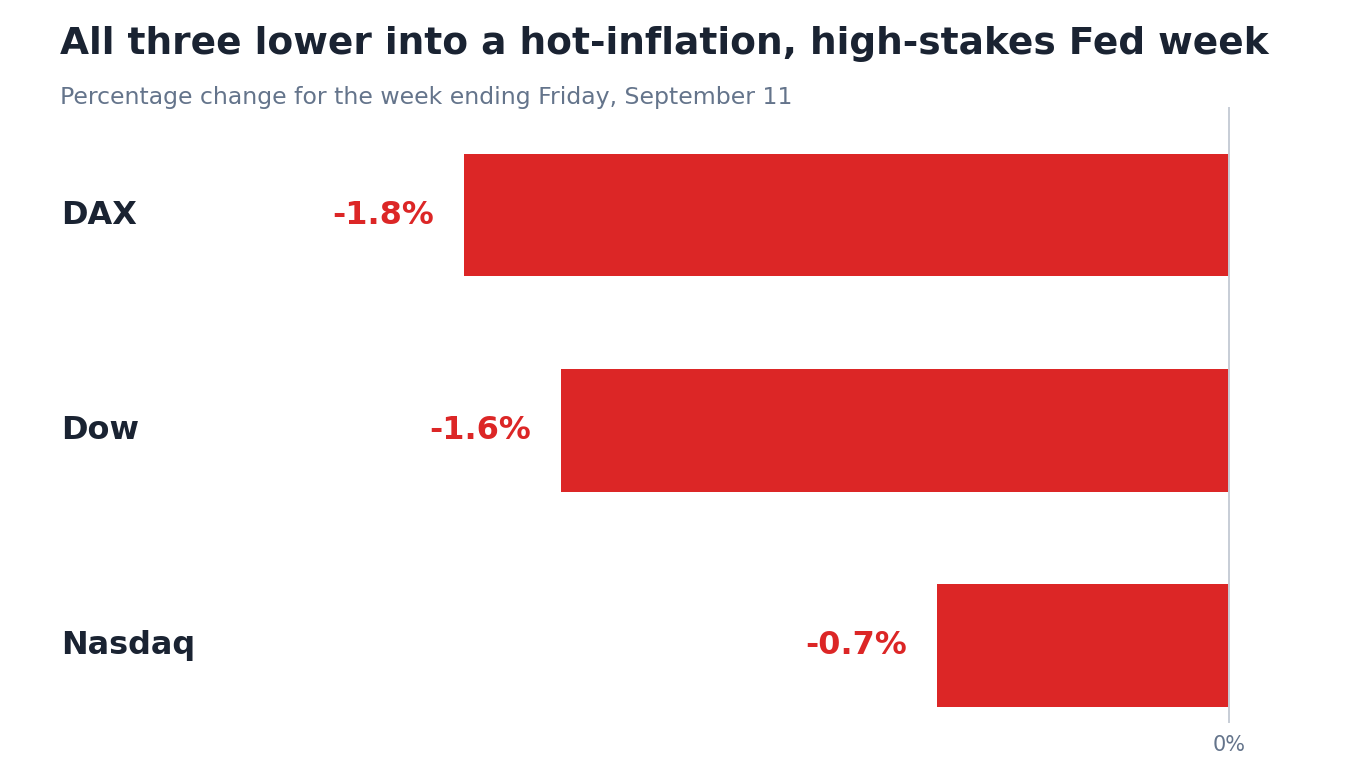
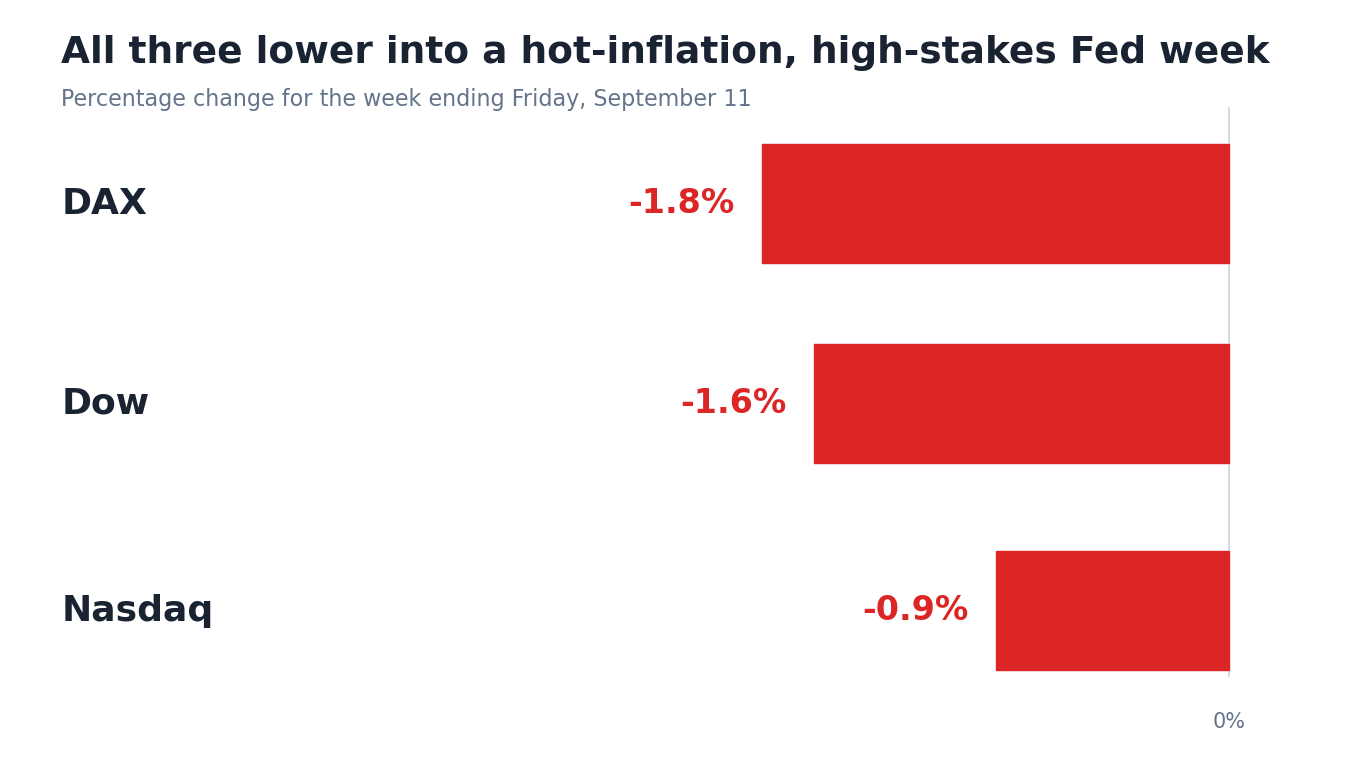
Fix Nasdaq weekly-change error in week-ahead post
The Nasdaq Composite's stated weekly move (-0.7%) was wrong - verified
against real closes (26,584.06 -> 26,333.04), the actual move was
-0.9%. Also fixed the mid-August level: 26,803 is a real August 13
close, but it was never a record - the actual all-time high (27,093.90)
was set in June. Corrected the cover chart to match.

DAX and Dow figures were re-checked against the same sources and are
accurate as published.

diff --git a/content/blog/2026-09-14-week-ahead/index.md b/content/blog/2026-09-14-week-ahead/index.md
@@ -5,7 +5,7 @@ draft: false
 description: "DAX, Dow, and Nasdaq all closed lower after August's CPI and PPI came in higher than expected, pushing the odds of the Fed raising rates up to around 70%. Wednesday's decision, due the same morning as August retail sales, is the week's one real event."
 cover:
   image: "fomc-week.png"
-  alt: "Bar chart showing weekly percentage change for DAX (-1.8%), Dow (-1.6%), and Nasdaq (-0.7%) for the week ending Friday, September 11"
+  alt: "Bar chart showing weekly percentage change for DAX (-1.8%), Dow (-1.6%), and Nasdaq (-0.9%) for the week ending Friday, September 11"
   caption: "All three closed the week lower as stronger-than-expected inflation data pushed the odds of a rate rise up ahead of Wednesday's Fed decision"
 categories: ["Market Review"]
 tags: ["DAX", "Dow", "Nasdaq", "week ahead", "Federal Reserve", "inflation"]
@@ -15,7 +15,7 @@ Everything else this week is just waiting for Wednesday afternoon. That's when t
 
 ## Last week
 
-Both of August's big inflation reports came in higher than expected. Producer prices rose 0.4% on the month, with the yearly rate climbing to 5.4%, and consumer prices came in a touch firmer than forecast too, core inflation up 0.3%. Numbers like that make it easier for the Fed to justify raising rates rather than holding steady, and all three indices ended the week lower because of it, even with a strong rally on Friday itself. The DAX lost 1.8% to close at 25,569, the Dow gave up 1.6% to 52,573.29 despite adding more than 500 points on Friday alone, and the Nasdaq Composite came off just 0.7% to 26,333.04. President Trump has also been openly pushing Fed chair Kevin Warsh to cut rates instead of raising them, which hasn't changed the numbers but has added a layer of noise to a decision that was already close to balanced.
+Both of August's big inflation reports came in higher than expected. Producer prices rose 0.4% on the month, with the yearly rate climbing to 5.4%, and consumer prices came in a touch firmer than forecast too, core inflation up 0.3%. Numbers like that make it easier for the Fed to justify raising rates rather than holding steady, and all three indices ended the week lower because of it, even with a strong rally on Friday itself. The DAX lost 1.8% to close at 25,569, the Dow gave up 1.6% to 52,573.29 despite adding more than 500 points on Friday alone, and the Nasdaq Composite came off 0.9% to 26,333.04. President Trump has also been openly pushing Fed chair Kevin Warsh to cut rates instead of raising them, which hasn't changed the numbers but has added a layer of noise to a decision that was already close to balanced.
 
 ## The week ahead
 
@@ -29,7 +29,7 @@ The Dow has support around 52,000, a round number sitting just under Friday's cl
 
 ### Nasdaq
 
-The Nasdaq Composite has leaned on a support shelf around 26,000 more than once over the past month, with its mid-August record of 26,803 sitting above as resistance. This is the index with the most riding on Wednesday, because a large part of what a fast-growing tech company is worth today depends on profits it hasn't made yet, and those future profits are worth less the more expensive borrowing becomes. A hold would likely spark the strongest bounce of the three; a rise in rates, even one everyone saw coming, still confirms that money costs more from here.
+The Nasdaq Composite has leaned on a support shelf around 26,000 more than once over the past month, with its mid-August high of 26,803 sitting above as resistance - still short of the index's actual record, set back in June. This is the index with the most riding on Wednesday, because a large part of what a fast-growing tech company is worth today depends on profits it hasn't made yet, and those future profits are worth less the more expensive borrowing becomes. A hold would likely spark the strongest bounce of the three; a rise in rates, even one everyone saw coming, still confirms that money costs more from here.
 
 ## Elsewhere this week
 
